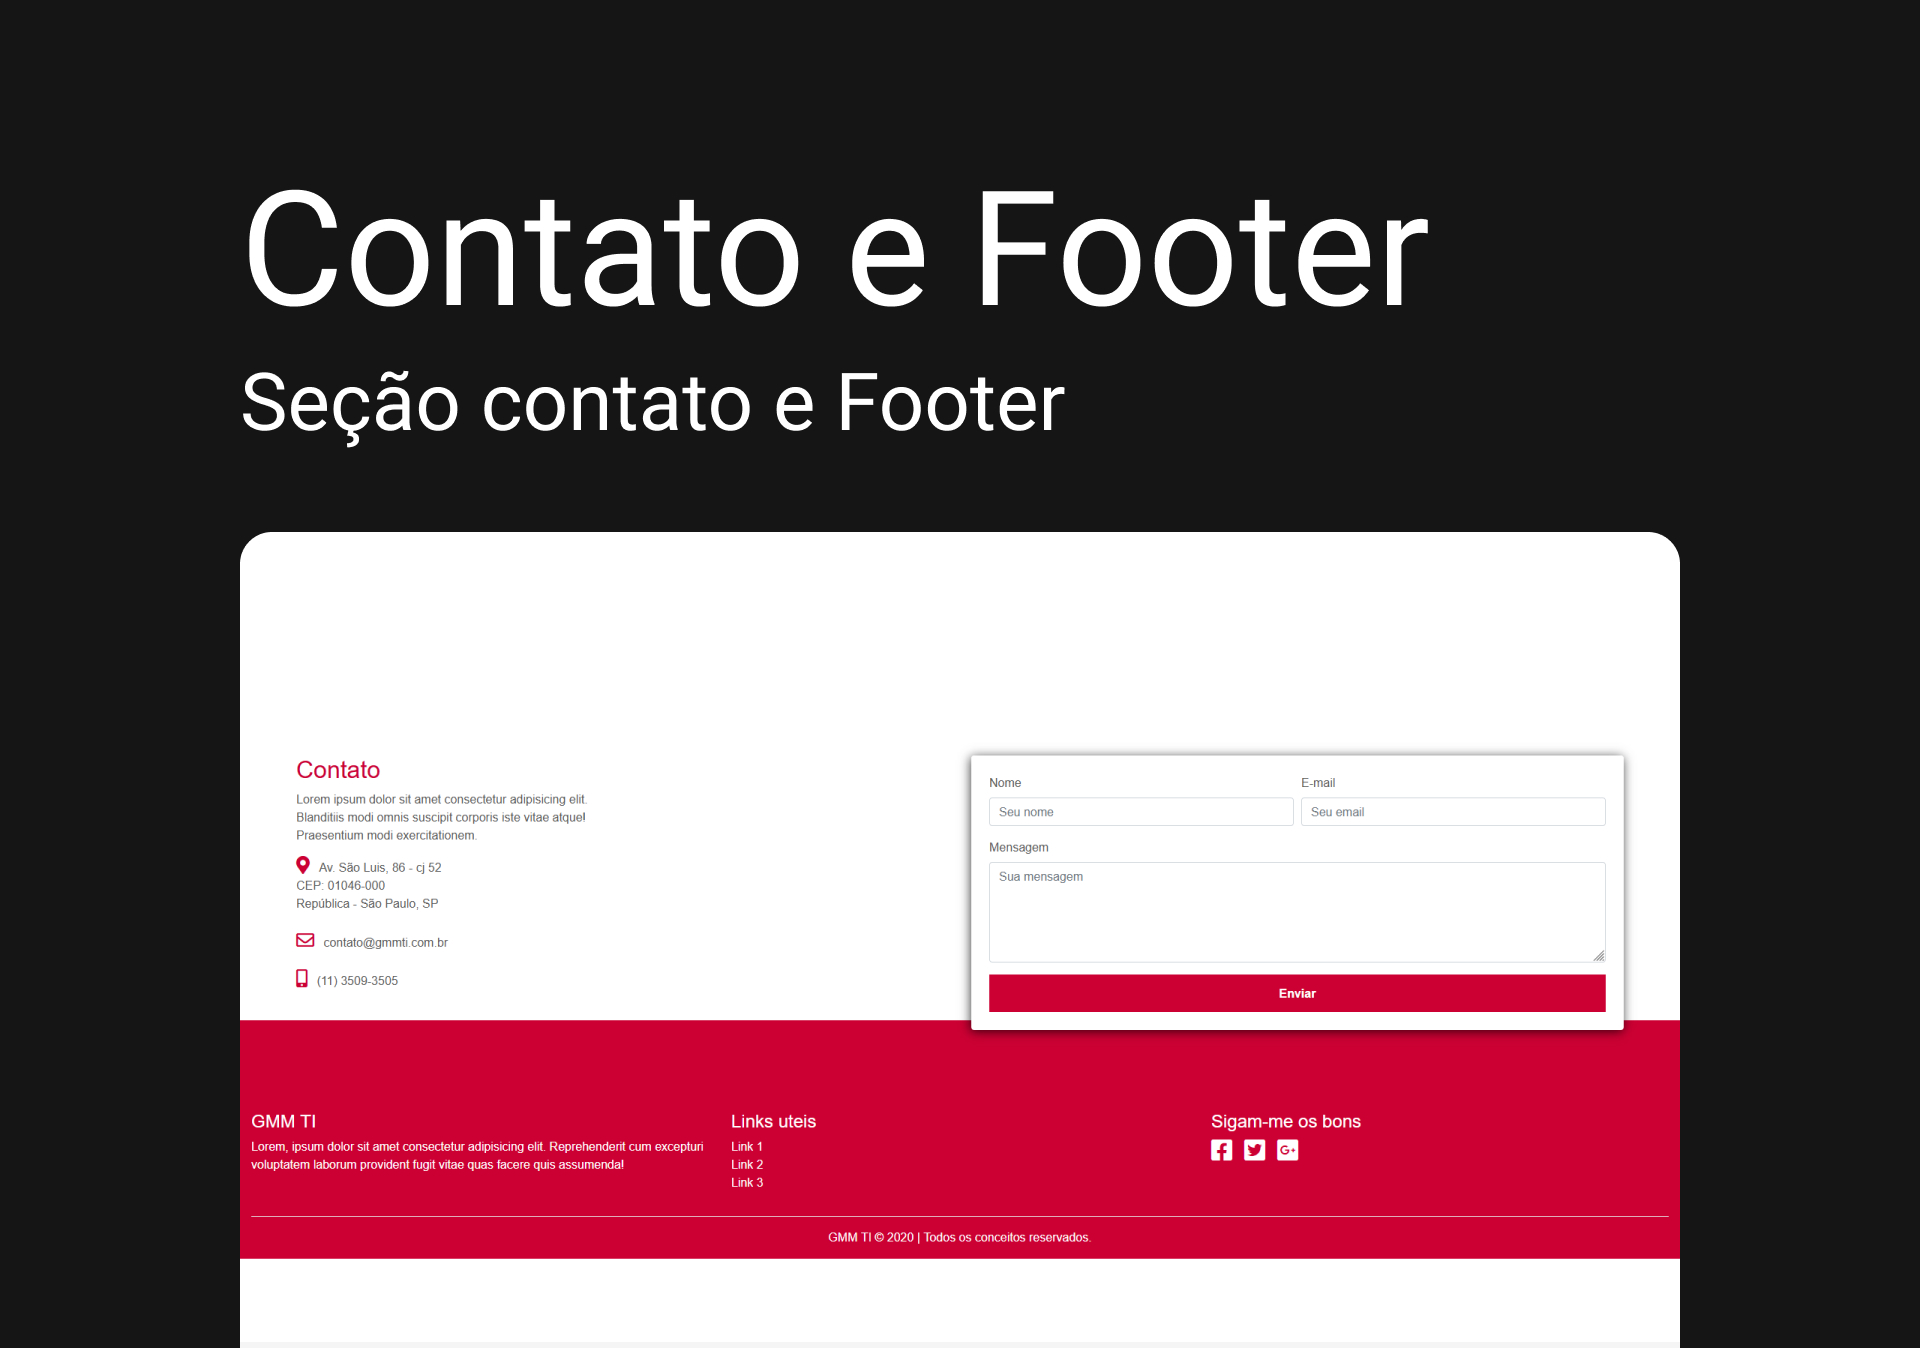
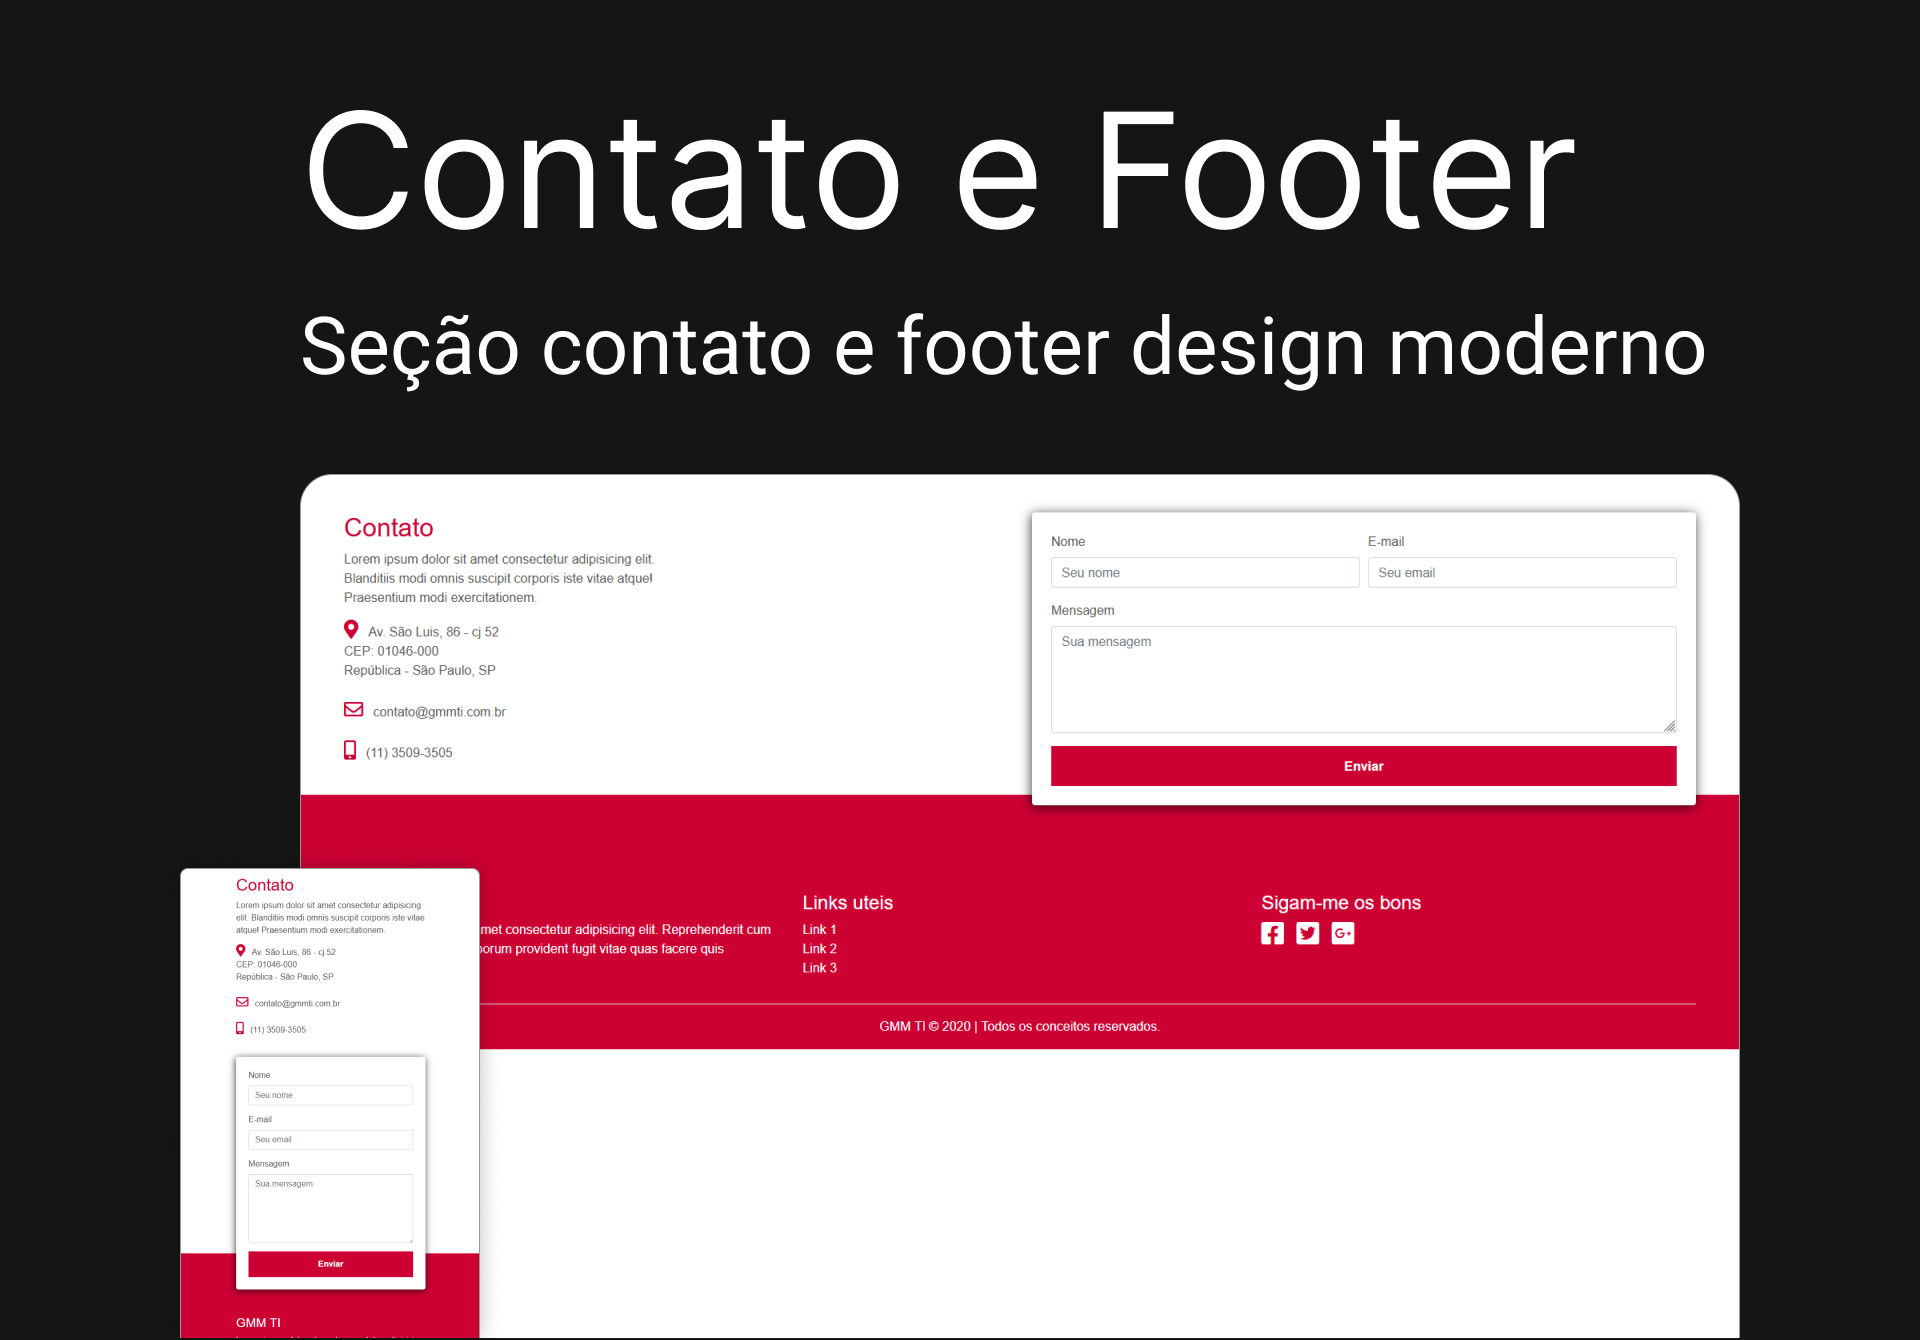
[UPDATE] Readme

diff --git a/README.md b/README.md
@@ -4,24 +4,37 @@
   
   <p>Seção de contato e footer com design moderno e clean <br />
   Formulário com acessibilidade e campos requiridos</p>
-  
+
   <img width="3%" src="https://raw.githubusercontent.com/devicons/devicon/master/icons/html5/html5-plain.svg"> &nbsp;
   <img width="3%" src="https://raw.githubusercontent.com/devicons/devicon/master/icons/css3/css3-plain.svg"> &nbsp;
   <img width="3%" src="https://raw.githubusercontent.com/devicons/devicon/master/icons/sass/sass-original.svg"> &nbsp;
   <img width="3%" src="https://raw.githubusercontent.com/devicons/devicon/master/icons/bootstrap/bootstrap-plain.svg"> &nbsp;
   <img width="3%" src="https://raw.githubusercontent.com/devicons/devicon/master/icons/javascript/javascript-plain.svg"> &nbsp;
 
-  ![Contato e Footer](./assets/img/cover.jpg)
+  ![Luxury](./assets/img/cover.jpg)
 </div>
 
 <div>
 
-  # Aprendizados
+  # ⚡ Overview
+  <b>Contato e Footer</b>: Seção de informações e formulários para contato.<br />
+  Layout clean e moderno.
+   
+  ## Features:
+  - Manipulação de DOM
+  - Totalmente Responsivo
+  - SEO otimizado
+  - W3C validação
+  - Página com carregamento rápido
+  - Layout Clean e Moderno
+
+  # 📚 Aprendizados
   Extrair a paleta de cores da brand da empresa e utiliza no projeto. <br />
   Trabalhar com Bootstrap 5 e responsividade.
   <br /><br />
-
-  # <b>[Ver online 🡽](https://cdpn.io/SoftwaRealles/fullpage/MWKVVmp?nocache=true&view=fullpage)</b>
+  
+  # 🚀 Deploy
+  [Ver online](https://cdpn.io/SoftwaRealles/fullpage/MWKVVmp)
 
   ## Clone
 
